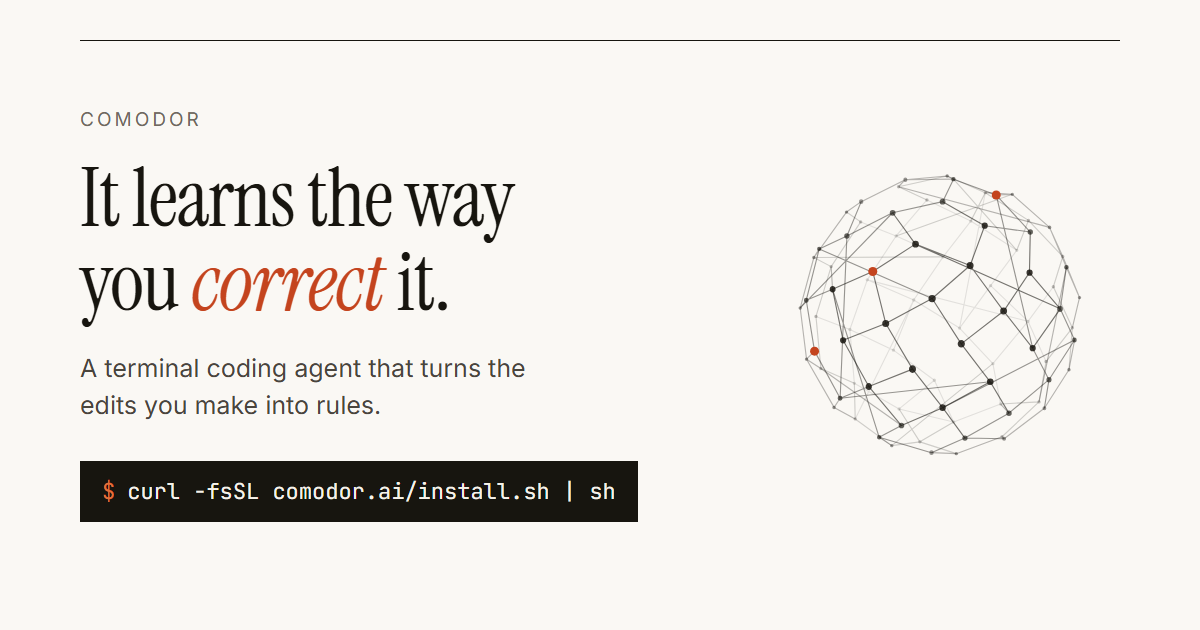
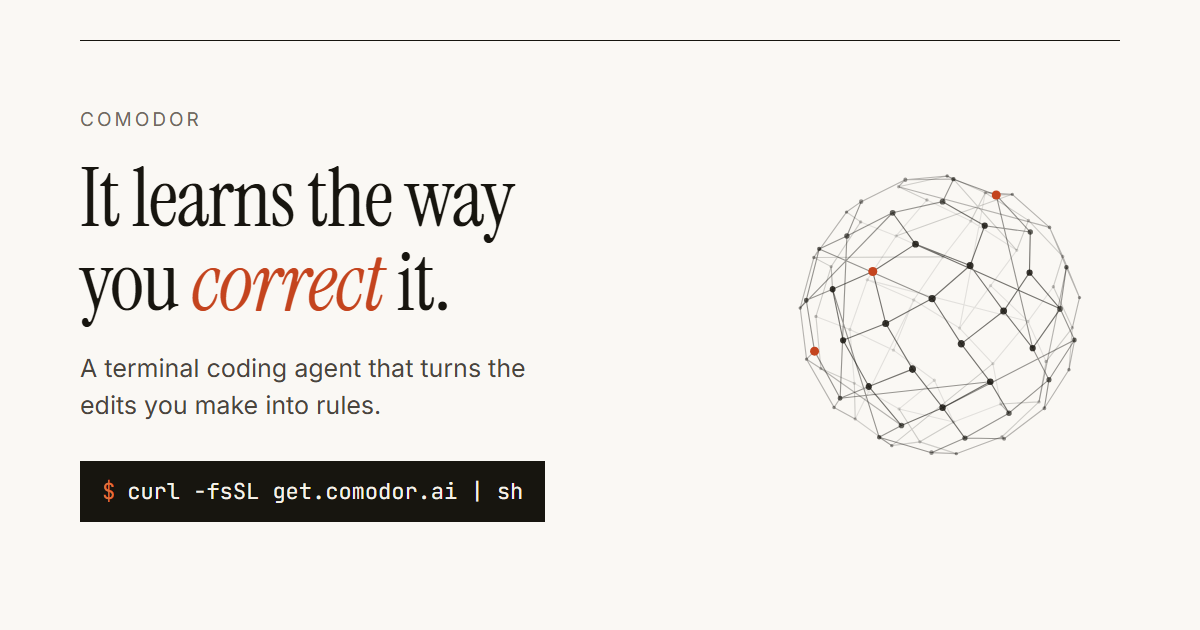
The site showed a placeholder mark while the real one sat beside it
The uploaded icon set is the logo — an orange ring, quartered. What every tab,
bookmark and home-screen shortcut actually showed was the mark `tools/og.mjs`
draws for itself: a dark rounded square with a prompt caret, written in that
file as an SVG string. A fair placeholder while there was no logo, and not the
logo.

Worse than a wrong reference. That generator *writes* `icon.svg`,
`icon-192.png`, `icon-512.png`, `apple-touch-icon.png` and `favicon.ico` on
every run, so pointing the metadata at the real artwork without touching it
would have been a trap: the next person to render the social card would put the
placeholder back in every browser tab, with nothing in the diff to say why. The
icon half of that tool is gone. The card half stays, which is what it is named
after, and what replaced the rest is a check — the fifteen files the page
promises by name have to exist, and it fails if one does not.

Also removed: a second manifest, `manifest.json`, which came with the icon set
and declared the application's name as "App". Two manifests is one too many and
the wrong one went; `site.webmanifest` keeps the real name and description and
now lists the real icons, with the mark's own ember as the theme colour rather
than the page's paper.

`apple-touch-icon.png` stays at that name — iOS and a good many link unfurlers
fetch it directly whether or not a tag points at it — carrying the new artwork
instead of the old.
[…]

Changed region(s): [[0.2158, 0.7238, 0.555, 0.8444]]

diff --git a/app/layout.tsx b/app/layout.tsx
@@ -77,15 +77,33 @@ export const metadata: Metadata = {
     description: site.description,
     images: ['/og.png'],
   },
+  // The uploaded mark, at the sizes browsers actually ask for. No SVG: there
+  // is no vector of it, and one traced by eye would be a different logo.
   icons: {
     icon: [
-      { url: '/icon.svg', type: 'image/svg+xml' },
-      { url: '/favicon.ico', sizes: '32x32' },
-      { url: '/icon-192.png', type: 'image/png', sizes: '192x192' },
+      { url: '/favicon.ico', sizes: '48x48' },
+      { url: '/favicon-16x16.png', type: 'image/png', sizes: '16x16' },
+      { url: '/favicon-32x32.png', type: 'image/png', sizes: '32x32' },
+      { url: '/favicon-96x96.png', type: 'image/png', sizes: '96x96' },
+      { url: '/android-icon-192x192.png', type: 'image/png', sizes: '192x192' },
     ],
-    apple: '/apple-touch-icon.png',
+    // iOS picks the largest it is offered and ignores the rest, but the
+    // smaller ones are what an older device downloads instead of scaling the
+    // big one badly.
+    apple: [
+      { url: '/apple-icon-180x180.png', sizes: '180x180' },
+      { url: '/apple-icon-152x152.png', sizes: '152x152' },
+      { url: '/apple-icon-120x120.png', sizes: '120x120' },
+      { url: '/apple-icon-76x76.png', sizes: '76x76' },
+    ],
   },
   manifest: '/site.webmanifest',
+  other: {
+    // Windows tiles are not part of Next's icon metadata and are read from
+    // this file, which the icon set already ships.
+    'msapplication-config': '/browserconfig.xml',
+    'msapplication-TileColor': '#e2703a',
+  },
   alternates: { canonical: `${site.url}/` },
   robots: {
     index: true,

diff --git a/tools/og.html b/tools/og.html
@@ -96,7 +96,7 @@
     <div class="name">Comodor</div>
     <h1>It learns the way<br>you <em>correct</em> it.</h1>
     <p>A terminal coding agent that turns the edits you make into rules.</p>
-    <div class="command"><span>$</span>curl -fsSL comodor.ai/install.sh | sh</div>
+    <div class="command"><span>$</span>curl -fsSL get.comodor.ai | sh</div>
   </div>
 
   <svg id="mark" width="360" height="360" viewBox="-128 -128 256 256" aria-hidden="true"></svg>
